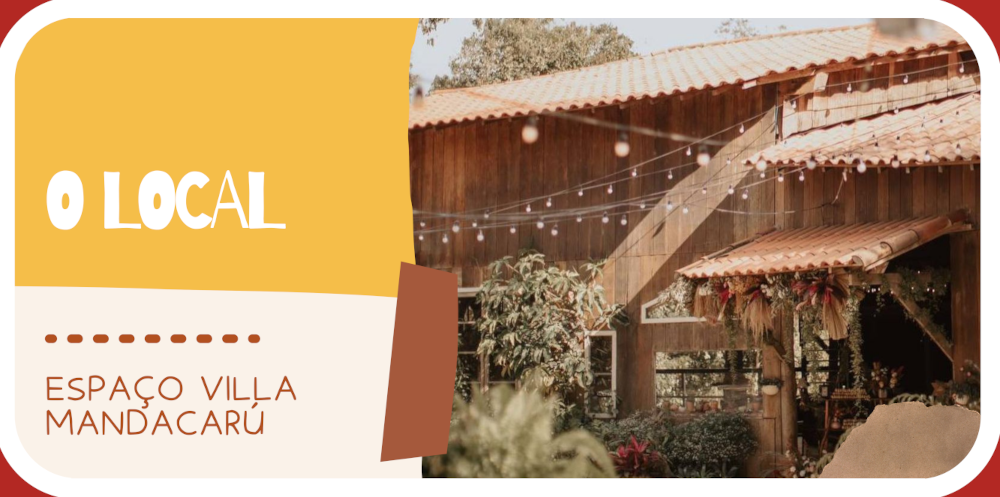
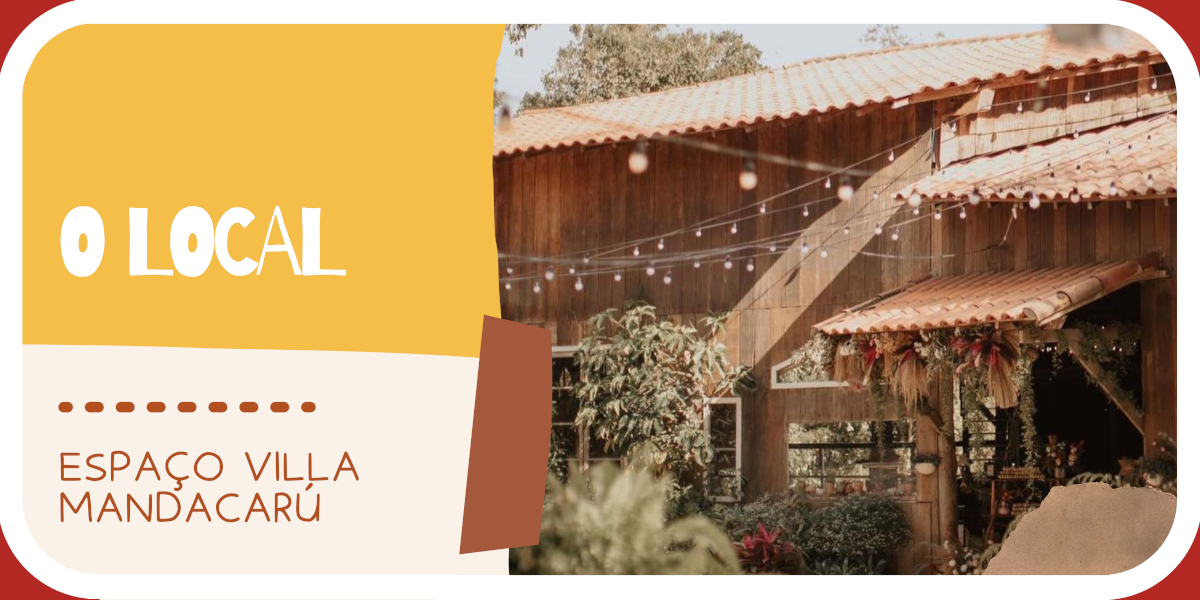
Alterações na página casamento

diff --git a/casamento.html b/casamento.html
@@ -25,6 +25,13 @@
         <a href="lista-de-presentes.html">Lista de Presentes</a>
     </nav>
     <main>
+        <div class="image-7">
+            <picture>
+                <source media="(max-width:750px)" srcset="imagens/convite-p.png" type="image/png">
+                <source media="(max-width:1050px)" srcset="imagens/convite-m.png" type="image/png">
+                <img src="imagens/convite-g.png" title="Banner Local">
+            </picture>
+        </div>
         <div class="image-3">
             <a href="https://www.villamandacaru.com.br/" title="Mandacarú" target="Mandacarú">
                 <picture>
@@ -41,13 +48,6 @@
                 <img src="imagens/endereco-g.png" alt="Logo do Site">
             </picture>
         </div>
-        <div class="image-6">
-            <picture>
-                <source media="(max-width:750px)" srcset="imagens/gustavo-vanessa-p.png" type="image/png">
-                <source media="(max-width:1050px)" srcset="imagens/gustavo-vanessa-m.png" type="image/png">
-                <img src="#" alt="Logo do Site">
-            </picture>
-        </div>
         <div class="text-2">
             <p>
             Se você precisar de hospedagem, recomendamos o seguinte hotel:
@@ -56,11 +56,23 @@
         <div class="image-4">
             <a href="#" title="Hotel KK" target="Hotel KK">
                 <picture>
-                    <source media="(max-width:750px)" srcset="imagens/hotel-p.png" type="image/png">
-                    <source media="(max-width:1050px)" srcset="imagens/hotel-m.png" type="image/png">
-                    <img src="imagens/hotel-g.png" title="Banner Hotel KK">
+                    <source media="(max-width:750px)" srcset="imagens/hotelkk-p.png" type="image/png">
+                    <source media="(max-width:1050px)" srcset="imagens/hotelkk-m.png" type="image/png">
+                    <img src="imagens/hotelkk-g.png" title="Banner Hotel KK">
                 </picture>
             </a>
+        </div>
+        <div class="text-3">
+            <p>
+            Se você precisar de salão de beleza em Itu, recomendamos o seguinte:
+            </p>
+        </div>
+        <div class="image-6">
+            <picture>
+                <source media="(max-width:750px)" srcset="imagens/chimini-p.png" type="image/png">
+                <source media="(max-width:1050px)" srcset="imagens/chimini-m.png" type="image/png">
+                <img src="imagens/chimini-g.png" alt="Banner *">
+            </picture>
         </div>
 
 

diff --git a/css/style.css b/css/style.css
@@ -80,7 +80,8 @@ nav > a:hover{
     font-family: var(--fonte-padrao);
     font-weight: bold;
     color: #fff;
-    margin: 25px;
+    margin-left: 80px;
+    font-size: 20px;
 }
 
 .text-1 p{
@@ -92,7 +93,8 @@ nav > a:hover{
     font-family: var(--fonte-padrao);
     font-weight: bold;
     color: #fff;
-    margin: 25px;
+    margin-left: 80px;
+    font-size: 20px;
 }
 
 .text-2 p{
@@ -147,7 +149,26 @@ footer{
     padding-bottom: 10px;
 }
 
+.text-3{
+    padding-top: 10px;
+    font-family: var(--fonte-padrao);
+    font-weight: bold;
+    color: #fff;
+    margin-left: 80px;
+    font-size: 20px;
+}
+
+.text-3 p{
+    padding-bottom: 10px;
+}
+
 .image-6{
+    text-align: center;
+    padding-top: 30px;
+    padding-bottom: 10px;
+}
+
+.image-7{
     text-align: center;
     padding-top: 30px;
     padding-bottom: 10px;
